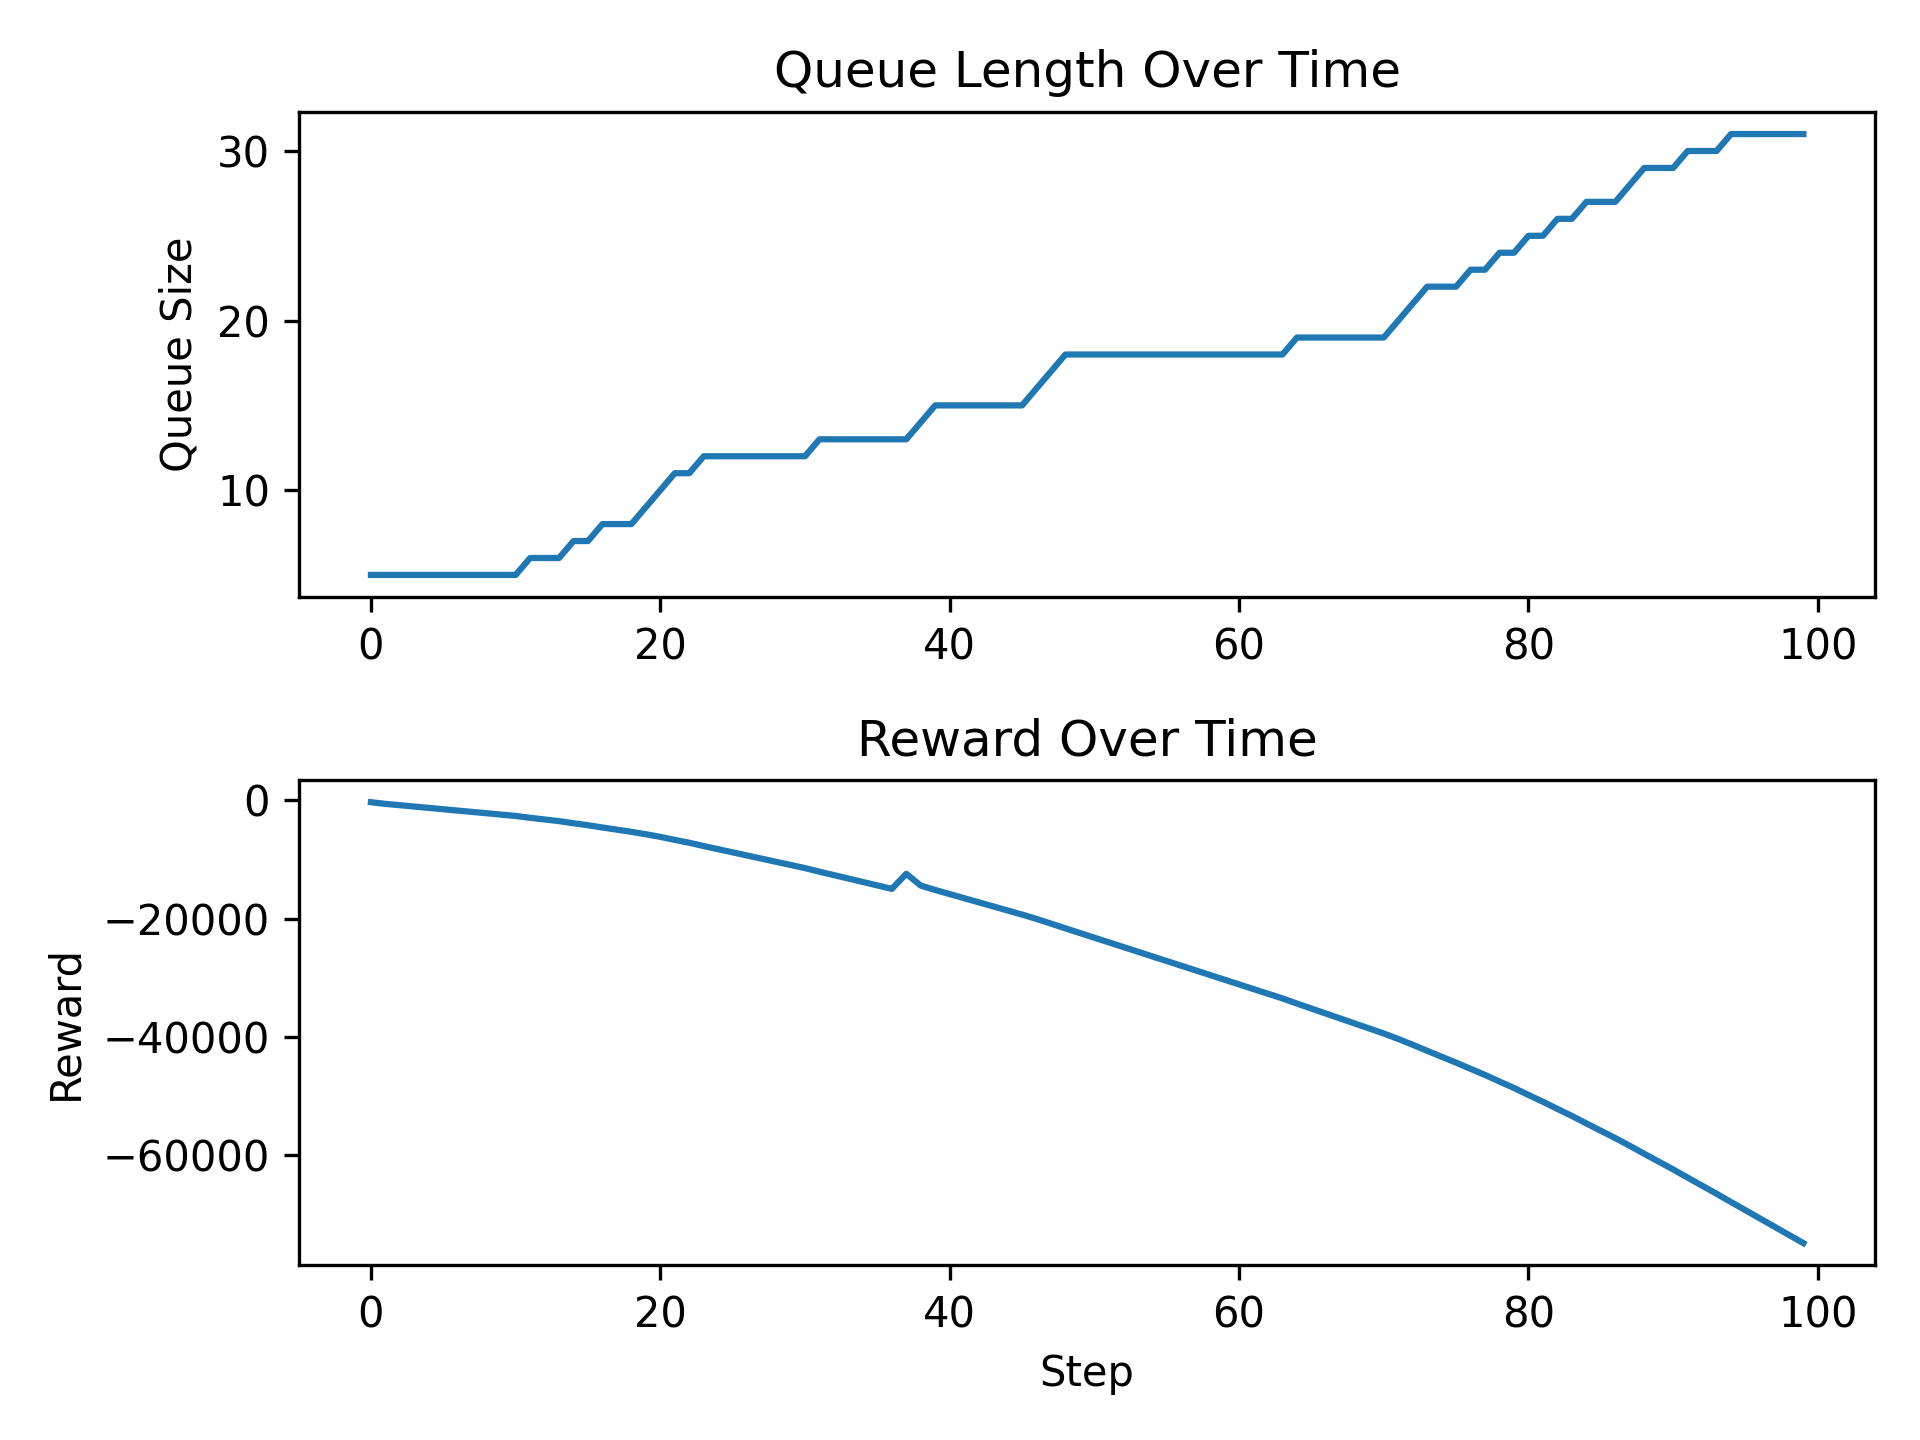
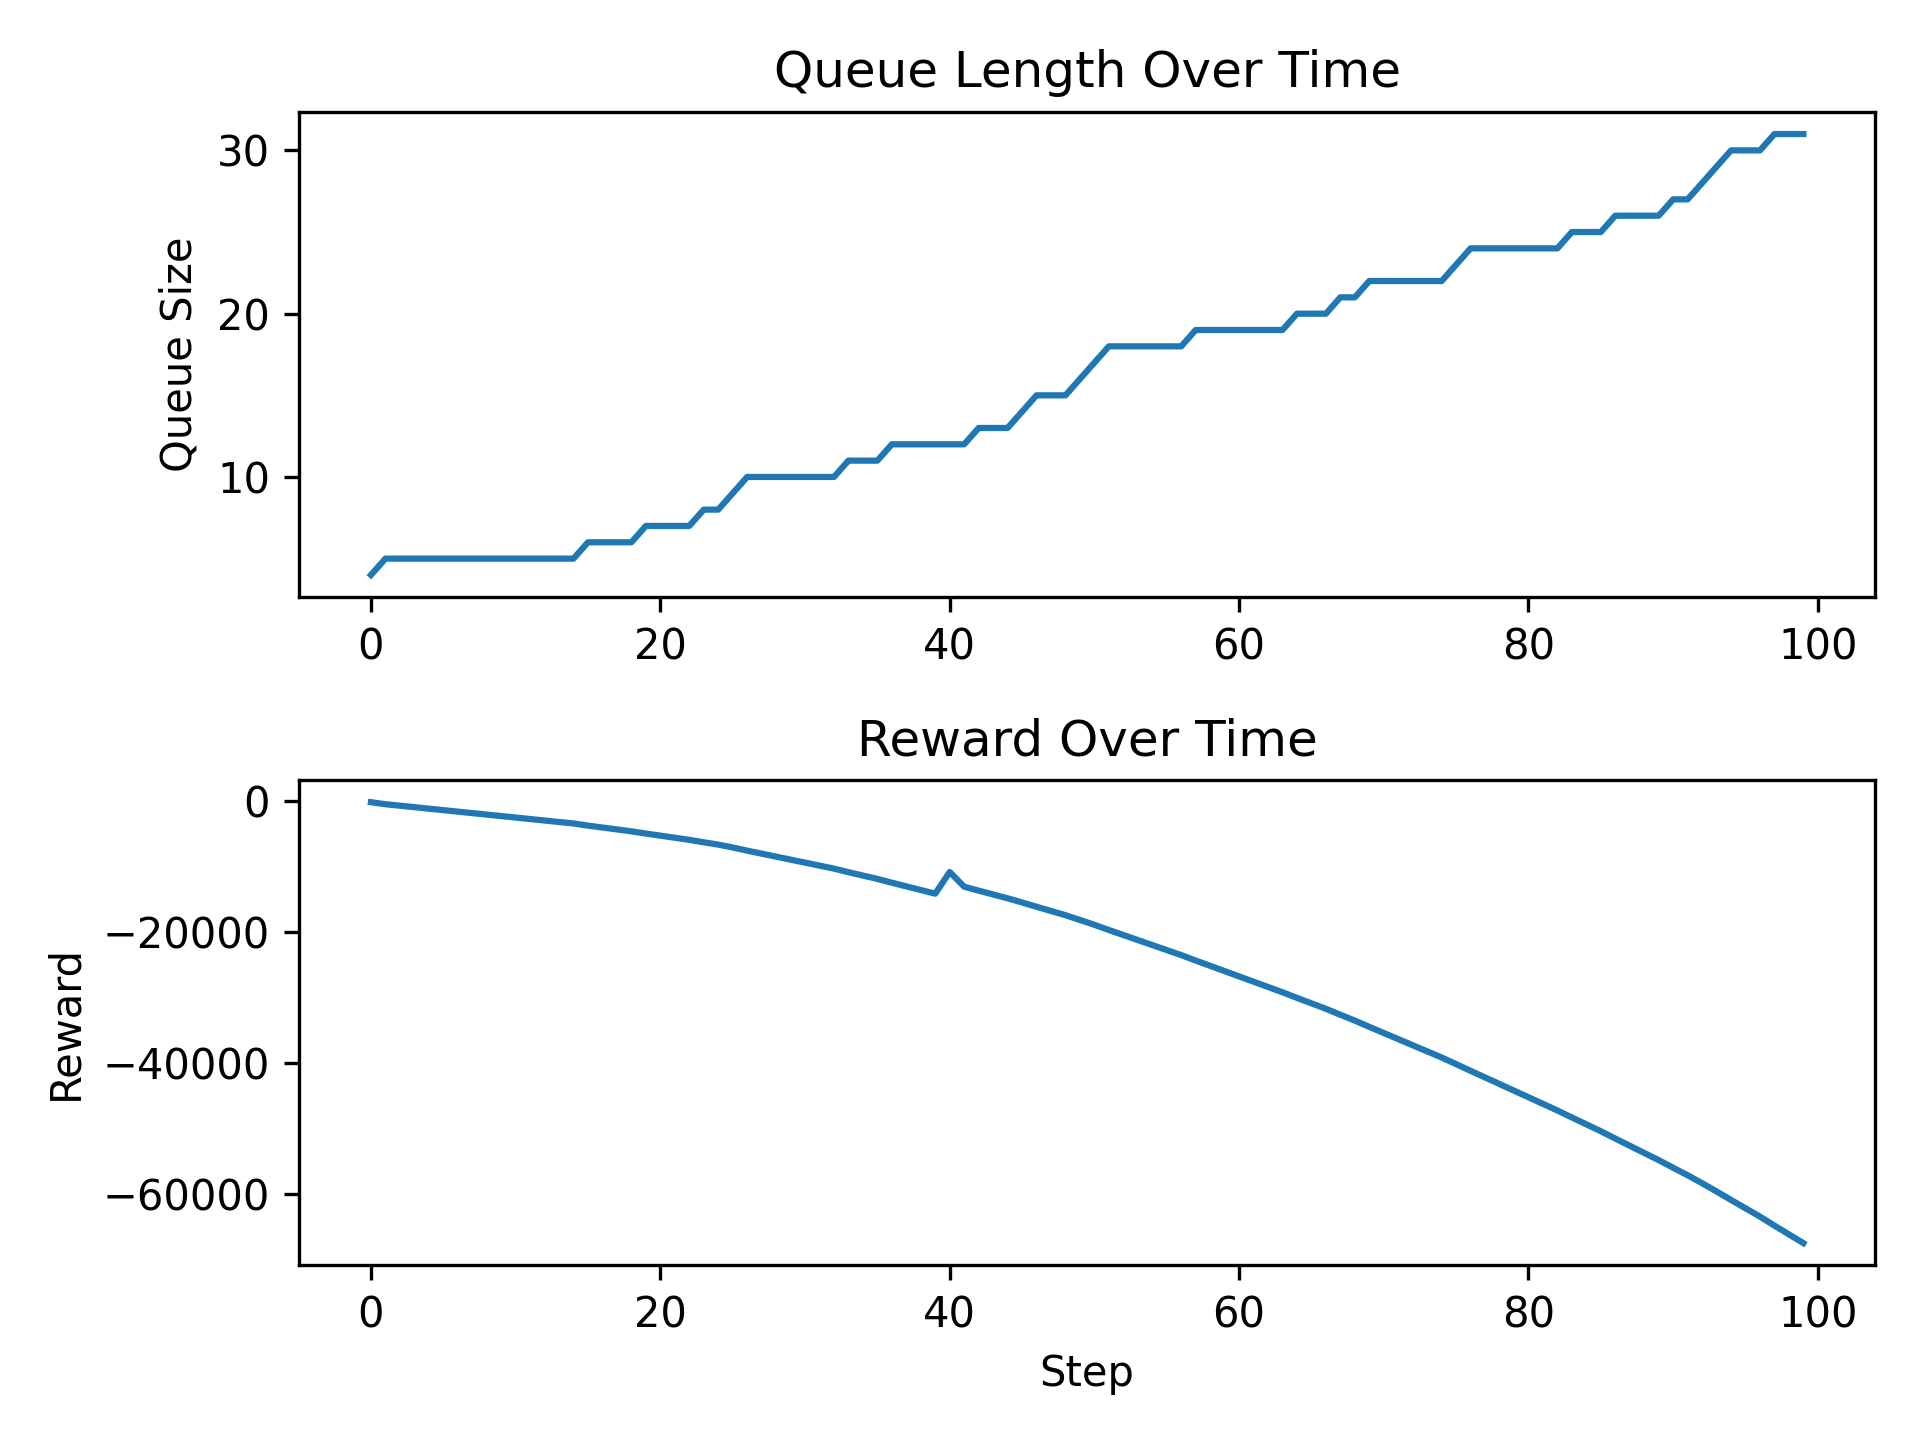
swapped with new API

diff --git a/policies/fifo.py b/policies/fifo.py
@@ -11,10 +11,13 @@ queue_lengths = []
 for t in range(100):
 
     actions = []
-
+    assigned_patients = 0 
     for i, doctor in enumerate(env.doctors):
-        if not doctor.busy and len(env.queue) > 0:
-            actions.append((i, 0))
+        # If doctor is free AND we haven't run out of waiting patients
+        if not doctor.busy and assigned_patients < len(env.queue):
+            # Assign doctor i to the next available patient index
+            actions.append((i, assigned_patients))
+            assigned_patients += 1
 
     state, reward, done = env.step(actions)
 
